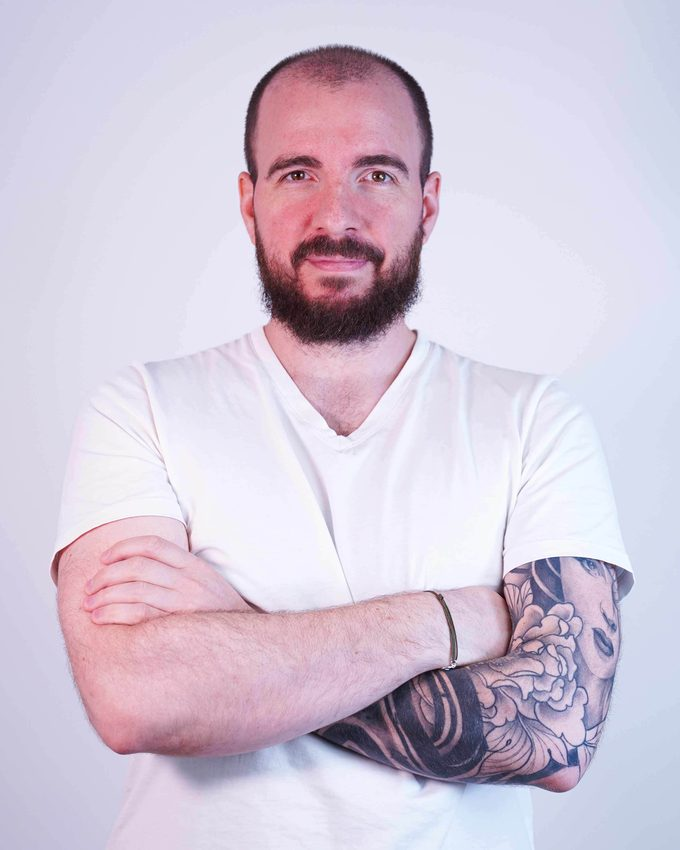
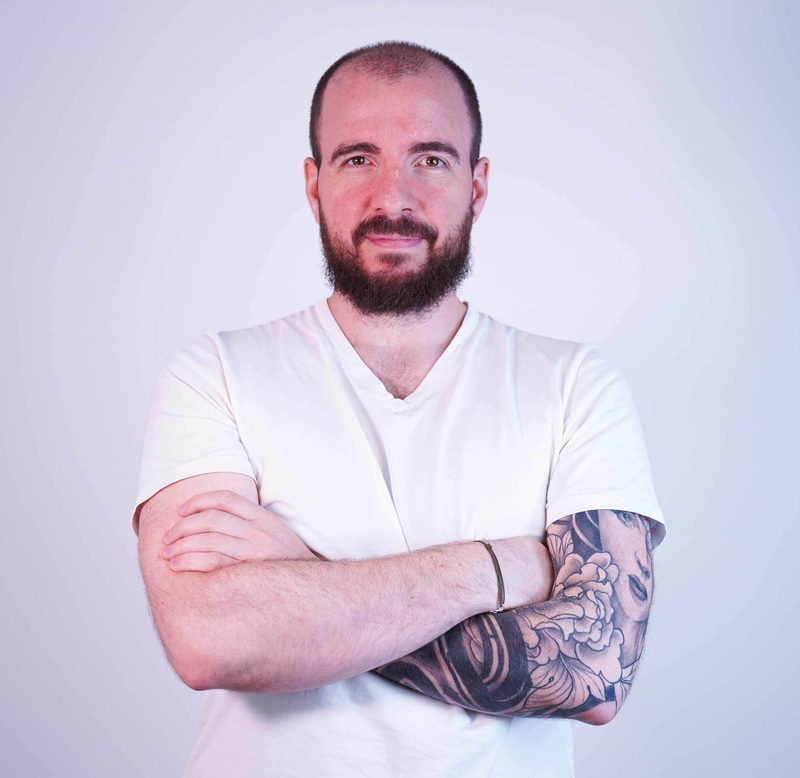
Photo de profil affichée en entier, sans recadrage
Claude-Session: https://claude.ai/code/session_016q3Wv6vjBK66Bcti2p9c8N

diff --git a/assets/style.css b/assets/style.css
@@ -89,9 +89,13 @@ h2 { margin: 0; font-size: clamp(30px, 3.4vw, 42px); line-height: 1.1; }
 .hero-text { flex: 3 1 540px; min-width: 0; }
 .hero h1 { margin: 0; font-size: clamp(40px, 5.8vw, 72px); line-height: 1.04; letter-spacing: -0.025em; }
 .hero .lead { margin: 28px 0 36px; max-width: 600px; font-size: 19px; color: var(--muted); }
-.hero-photo { flex: 1 1 260px; max-width: 340px; margin: 0; }
-.hero-photo img, .photo-placeholder {
-  width: 100%; aspect-ratio: 4 / 5; object-fit: cover;
+.hero-photo { flex: 1 1 300px; max-width: 420px; margin: 0; }
+.hero-photo img {
+  width: 100%; height: auto;
+  border-radius: 12px; border: 1px solid var(--line);
+}
+.photo-placeholder {
+  width: 100%; aspect-ratio: 4 / 5;
   border-radius: 12px; border: 1px solid var(--line); background: var(--surface);
 }
 .photo-placeholder { display: flex; align-items: center; justify-content: center; font-family: var(--font-mono); font-size: 13px; color: var(--muted); }

diff --git a/index.html b/index.html
@@ -64,7 +64,7 @@
       <figure class="hero-photo">
         <picture>
           <source srcset="/assets/julien-duflot.webp" type="image/webp">
-          <img src="/assets/julien-duflot.jpg" alt="Portrait de Julien Duflot" width="680" height="850" fetchpriority="high">
+          <img src="/assets/julien-duflot.jpg" alt="Portrait de Julien Duflot" width="800" height="778" fetchpriority="high">
         </picture>
       </figure>
     </section>
